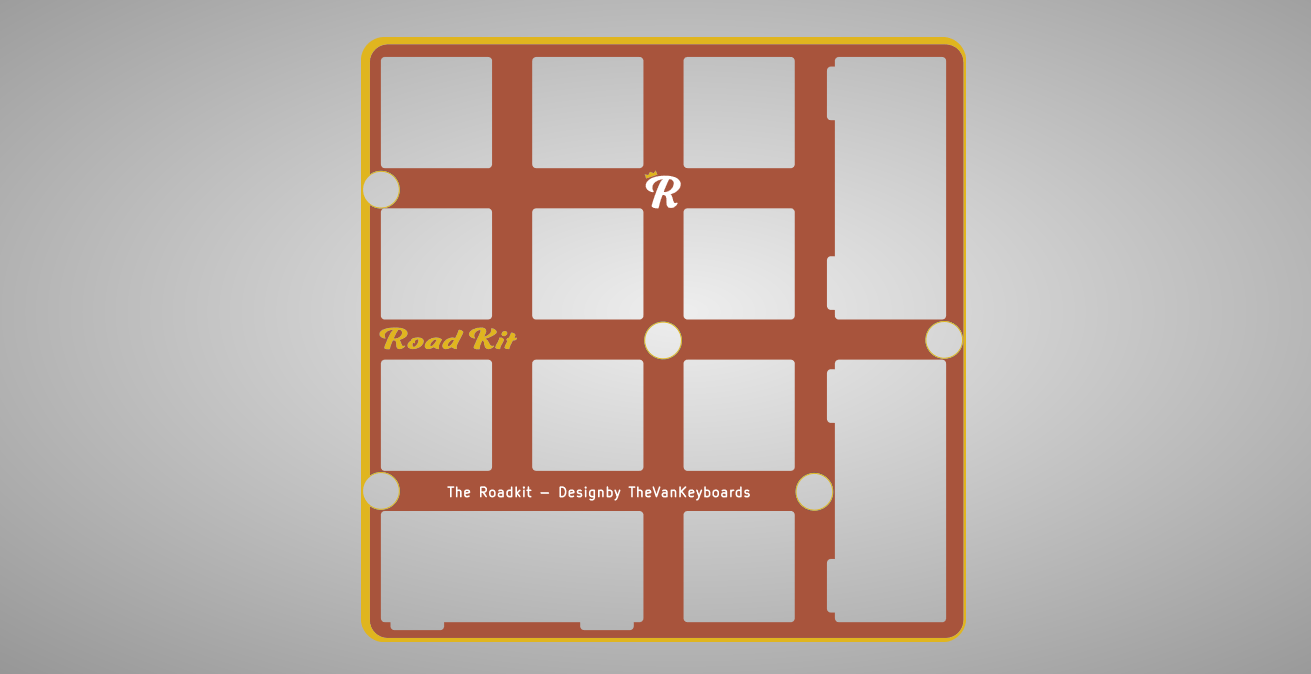
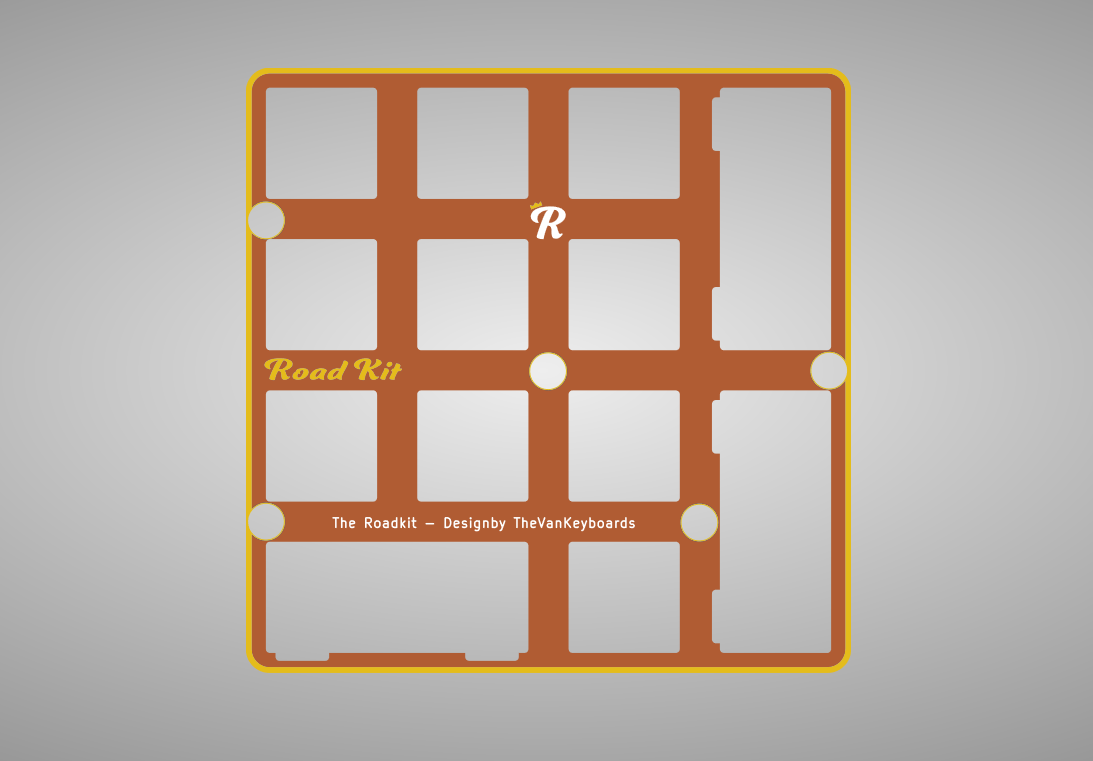
update FR4 doc

Changed region(s): [[0.2177, 0.0312, 0.7777, 0.9659]]

diff --git a/README.md b/README.md
@@ -35,10 +35,11 @@
 | --- | --- | :---: | :---: |
 | [Let's Split *Vitamins Inc.* Case](https://github.com/The-Royal/The_Royal_Open-Source-Projects/tree/schwann/03%20-%20Cases/Vitamins-Included_Case-master) | A 3D-Printed Case for the Hotswap Ed. Let's Split Keyboard | Case STLs, Plates | <img src="https://raw.githubusercontent.com/The-Royal/The_Royal_Vitamins-Included_Case/master/Full_Case_Renders/Main_Top_WC2.png" width="250px" /> |
 
-# **.04 - Plates**
+# **.04 - FR4 Plates**
 | *Switch Plate* | *Material* | *Main Files for Download* | *Featured Image* |
 | --- | --- | :---: | :---: |
-| [MiniVan FR4 Plates](dead.link) | FR4 *(PCB Material)* | Gerbers | <img src="img.jpg" width="250px" /> |
+| [Minivan FR4 Plates](https://github.com/The-Royal/The_Royal_Open-Source-Projects/tree/schwann/04%20-%20Plates/FR4_Plate-Minivan) | FR4 *(PCB Material)* | Gerbers | <img src="https://raw.githubusercontent.com/The-Royal/The_Royal_Open-Source-Projects/schwann/xfile-data/minivan_fr4_cap.png" width="250px" /> |
+| [Roadkit FR4 Plates](https://github.com/The-Royal/The_Royal_Open-Source-Projects/tree/schwann/04%20-%20Plates/FR4_Plate-Roadkit) | FR4 *(PCB Material)* | Gerbers | <img src="https://raw.githubusercontent.com/The-Royal/The_Royal_Open-Source-Projects/schwann/xfile-data/roadkit_fr4_cap.png" width="250px" /> |
 
 # **.05 - Other**
 | *Project* | *Excerpt* | *Main Files for Download* | *Featured Image* |

diff --git a/04 - FR4 Plates/FR4_Plate-Minivan/README.md b/04 - FR4 Plates/FR4_Plate-Minivan/README.md
@@ -1,0 +1,26 @@
+# FR4 Plates (PCB Material)
+
+## Minivan Universal Southpaw
+
+![mvfr4](https://raw.githubusercontent.com/The-Royal/The_Royal_Open-Source-Projects/schwann/xfile-data/minivan_fr4_cap.png)
+
+---
+
+These work the same way ordering PCBs does.  Just upload the provided gerbers to your manu. of choice.
+
+### Exact PCB Dimensions:
+
+- **242.9x76.2mm**
+
+---
+---
+
+ ### Thank You To Everyone for Making these projects possible!
+
+- I’m always down for a nice coffee, beer, or cup of tea. 
+- Click my Buymeacoffee link below if you wanted to make a small tip donation <3
+- Even just these little donation are so, very much, appreciated.  These really Help me to keep these little projects going and to keep them open source for you guys. 
+
+<a href="https://www.buymeacoffee.com/xQnlh8tRs" target="_blank"><img src="https://www.buymeacoffee.com/assets/img/custom_images/orange_img.png" alt="Buy Me A Coffee" style="height: 41px !important;width: 174px !important;box-shadow: 0px 3px 2px 0px rgba(190, 190, 190, 0.5) !important;-webkit-box-shadow: 0px 3px 2px 0px rgba(190, 190, 190, 0.5) !important;" ></a>
+
+

diff --git a/04 - FR4 Plates/FR4_Plate-Roadkit/README.md b/04 - FR4 Plates/FR4_Plate-Roadkit/README.md
@@ -1,0 +1,26 @@
+# FR4 Plates (PCB Material)
+
+## Roadkit Universal
+
+![rkfr4](https://raw.githubusercontent.com/The-Royal/The_Royal_Open-Source-Projects/schwann/xfile-data/roadkit_fr4_cap.png)
+
+---
+
+These work the same way ordering PCBs does.  Just upload the provided gerbers to your manu. of choice.
+
+### Exact PCB Dimensions:
+
+- **76.2x76.2mm**
+
+---
+---
+
+ ### Thank You To Everyone for Making these projects possible!
+
+- I’m always down for a nice coffee, beer, or cup of tea. 
+- Click my Buymeacoffee link below if you wanted to make a small tip donation <3
+- Even just these little donation are so, very much, appreciated.  These really Help me to keep these little projects going and to keep them open source for you guys. 
+
+<a href="https://www.buymeacoffee.com/xQnlh8tRs" target="_blank"><img src="https://www.buymeacoffee.com/assets/img/custom_images/orange_img.png" alt="Buy Me A Coffee" style="height: 41px !important;width: 174px !important;box-shadow: 0px 3px 2px 0px rgba(190, 190, 190, 0.5) !important;-webkit-box-shadow: 0px 3px 2px 0px rgba(190, 190, 190, 0.5) !important;" ></a>
+
+
